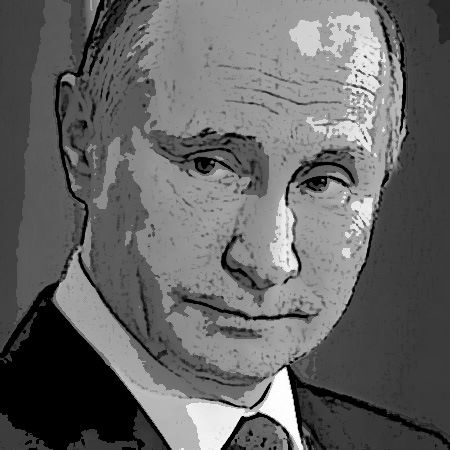
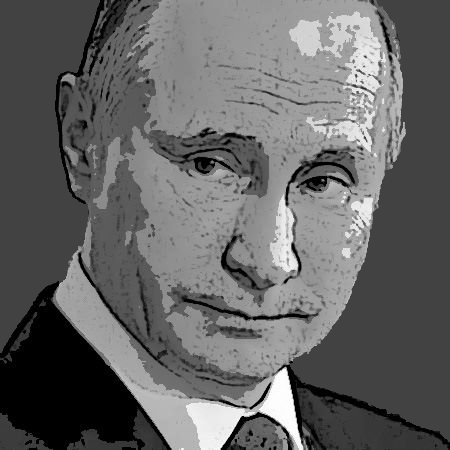
Change bg color putin

diff --git a/src/app/main/results/results.ts b/src/app/main/results/results.ts
@@ -6,13 +6,13 @@ export class Results {
   }
 
   static moneyImageMap = [
-    { threshold: 17000000000, image: '/assets/img/putin/7_putin_crying.jpg' },
-    { threshold: 20000000000, image: '/assets/img/putin/6_putin_sad.jpg' },
-    { threshold: 25000000000, image: '/assets/img/putin/5_putin_not_amused.jpg' },
-    { threshold: 30000000000, image: '/assets/img/putin/4_putin_worried.jpg' },
-    { threshold: 35000000000, image: '/assets/img/putin/3_putin_smile.jpg' },
-    { threshold: 40000000000, image: '/assets/img/putin/2_putin_big_smile.jpg' },
-    { threshold: 99999999999999, image: '/assets/img/putin/1_putin_toast.jpg' }
+    { threshold: 17000000000, image: './assets/img/putin/7_putin_crying.jpg' },
+    { threshold: 20000000000, image: './assets/img/putin/6_putin_sad.jpg' },
+    { threshold: 25000000000, image: './assets/img/putin/5_putin_not_amused.jpg' },
+    { threshold: 30000000000, image: './assets/img/putin/4_putin_worried.jpg' },
+    { threshold: 35000000000, image: './assets/img/putin/3_putin_smile.jpg' },
+    { threshold: 40000000000, image: './assets/img/putin/2_putin_big_smile.jpg' },
+    { threshold: 99999999999999, image: './assets/img/putin/1_putin_toast.jpg' }
   ]
 
   static gasGapBcm = 155; // Billion cubic meters per year
